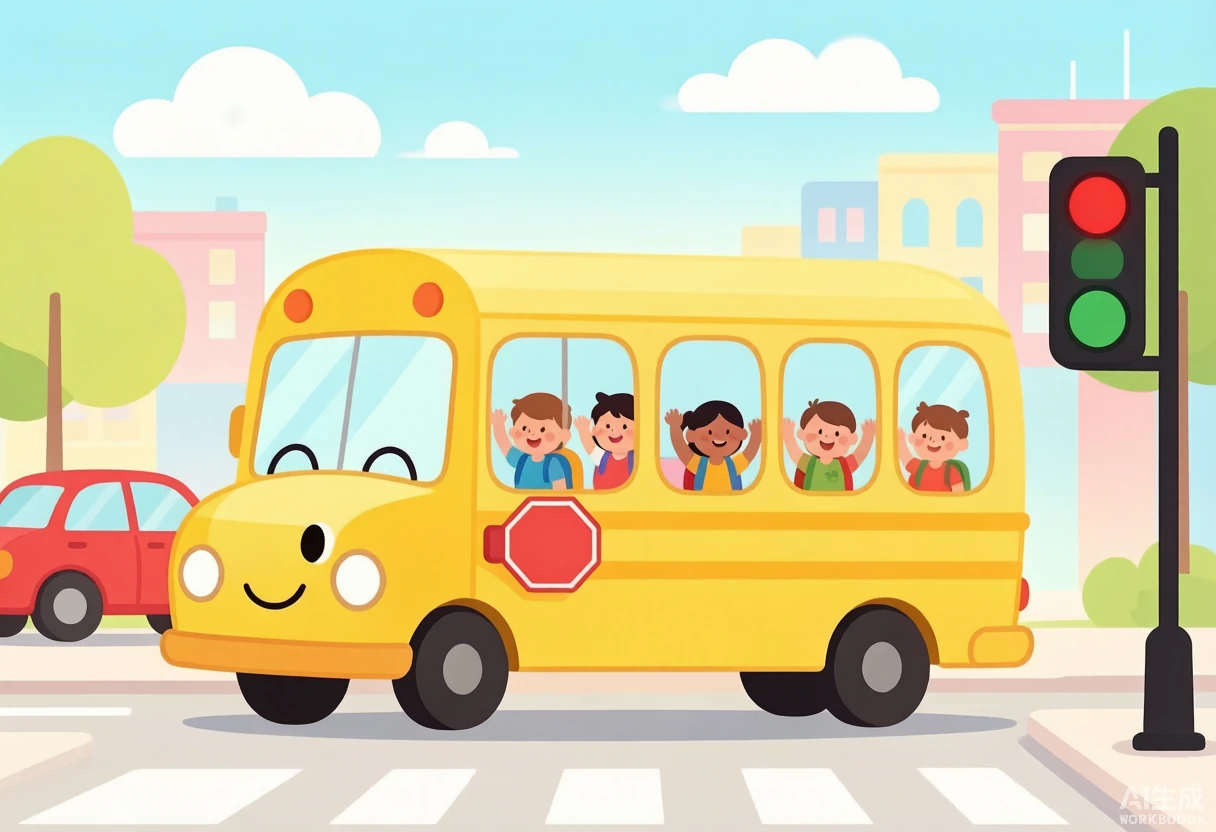
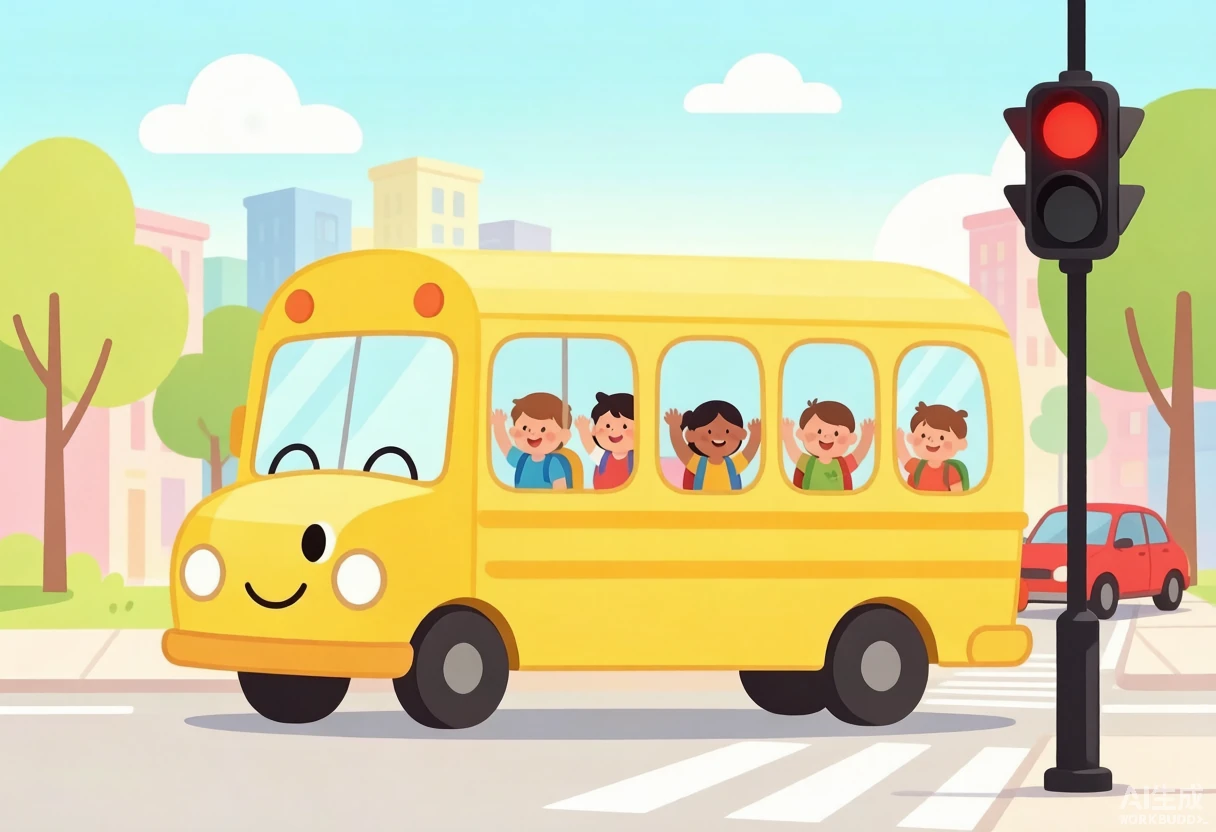
Regenerate schoolbus pages 3 & 8 with improved perspective
- Page 3 (inside): true cutaway side view with seats, aisle, handrails,
  and clear 3D interior depth (was a flat side view with see-through windows)
- Page 8 (road): better street perspective with receding buildings,
  3/4-view red car, and crosswalk depth (was flat/sticker-like)
- GLM-4.6V-FlashX used to diagnose perspective issues; ImageGen used for
  regeneration with the cover as img2img anchor
- Recalibrated Car hotspot coordinate for page 8; regenerated overlays.js
  with updated bg luminance values
- 3-layer QA passes

diff --git a/books/schoolbus/overlays.js b/books/schoolbus/overlays.js
@@ -23,10 +23,10 @@ window.OVL = {
   },
   sb_inside(){
     return svgWrap(
-      partSVG({px:650, py:520, name:'Seats', nameZh:'座位', fact:'cozy seats in rows', factZh:'一排排舒服的座位', line:"Sit here with your friends!", lineZh:'和好朋友坐在这里吧！', lineKey:'sb_inside_0', bg:'dark'}) +
+      partSVG({px:650, py:520, name:'Seats', nameZh:'座位', fact:'cozy seats in rows', factZh:'一排排舒服的座位', line:"Sit here with your friends!", lineZh:'和好朋友坐在这里吧！', lineKey:'sb_inside_0', bg:'light'}) +
       partSVG({px:600, py:560, name:'Aisle', nameZh:'走道', fact:'the walkway in the middle', factZh:'中间的走道', line:"Walk down me to your seat.", lineZh:'沿着我走到你的座位。', lineKey:'sb_inside_1', bg:'light'}) +
       partSVG({px:950, py:420, name:'Window', nameZh:'车窗', fact:'where we look out', factZh:'看外面的窗', line:"Look outside with me!", lineZh:'和我一起看外面！', lineKey:'sb_inside_2', bg:'light'}) +
-      partSVG({px:760, py:500, name:'Friend', nameZh:'小伙伴', fact:'a happy child on board', factZh:'车上的开心小朋友', line:"Hi! I'm riding to school!", lineZh:'嗨！我正坐车去幼儿园！', lineKey:'sb_inside_3', bg:'dark'})
+      partSVG({px:760, py:500, name:'Friend', nameZh:'小伙伴', fact:'a happy child on board', factZh:'车上的开心小朋友', line:"Hi! I'm riding to school!", lineZh:'嗨！我正坐车去幼儿园！', lineKey:'sb_inside_3', bg:'light'})
     );
   },
   sb_wheels(){
@@ -63,8 +63,8 @@ window.OVL = {
   },
   sb_road(){
     return svgWrap(
-      partSVG({px:1080, py:300, name:'Traffic light', nameZh:'红绿灯', fact:'red means stop, green go', factZh:'红灯停绿灯行', line:"Red means stop, green means go!", lineZh:'红灯停，绿灯行！', lineKey:'sb_road_0', bg:'dark'}) +
-      partSVG({px:100, py:560, name:'Car', nameZh:'小汽车', fact:'shares the road', factZh:'一起走的小汽车', line:"Vroom — sharing the road!", lineZh:'呜——一起走！', lineKey:'sb_road_1', bg:'dark'}) +
+      partSVG({px:1080, py:300, name:'Traffic light', nameZh:'红绿灯', fact:'red means stop, green go', factZh:'红灯停绿灯行', line:"Red means stop, green means go!", lineZh:'红灯停，绿灯行！', lineKey:'sb_road_0', bg:'light'}) +
+      partSVG({px:1050, py:680, name:'Car', nameZh:'小汽车', fact:'shares the road', factZh:'一起走的小汽车', line:"Vroom — sharing the road!", lineZh:'呜——一起走！', lineKey:'sb_road_1', bg:'light'}) +
       partSVG({px:700, py:770, name:'Crosswalk', nameZh:'斑马线', fact:'where people cross', factZh:'行人过马路的地方', line:"Walk here, nice and slow.", lineZh:'在这里慢慢走。', lineKey:'sb_road_2', bg:'light'}) +
       partSVG({px:850, py:500, name:'Bus', nameZh:'巴士', fact:'our yellow friend', factZh:'我们的黄色朋友', line:"We follow the rules, too!", lineZh:'我们也守规矩！', lineKey:'sb_road_3', bg:'light'})
     );

diff --git a/gen_schoolbus_overlays.py b/gen_schoolbus_overlays.py
@@ -132,7 +132,7 @@ HOT = {
         dict(px=1080, py=300, name='Traffic light', nameZh='红绿灯',
              fact='red means stop, green go', factZh='红灯停绿灯行',
              line="Red means stop, green means go!", lineZh='红灯停，绿灯行！', lineKey='sb_road_0'),
-        dict(px=100, py=560, name='Car', nameZh='小汽车',
+        dict(px=1050, py=680, name='Car', nameZh='小汽车',
              fact='shares the road', factZh='一起走的小汽车',
              line="Vroom — sharing the road!", lineZh='呜——一起走！', lineKey='sb_road_1'),
         dict(px=700, py=770, name='Crosswalk', nameZh='斑马线',
